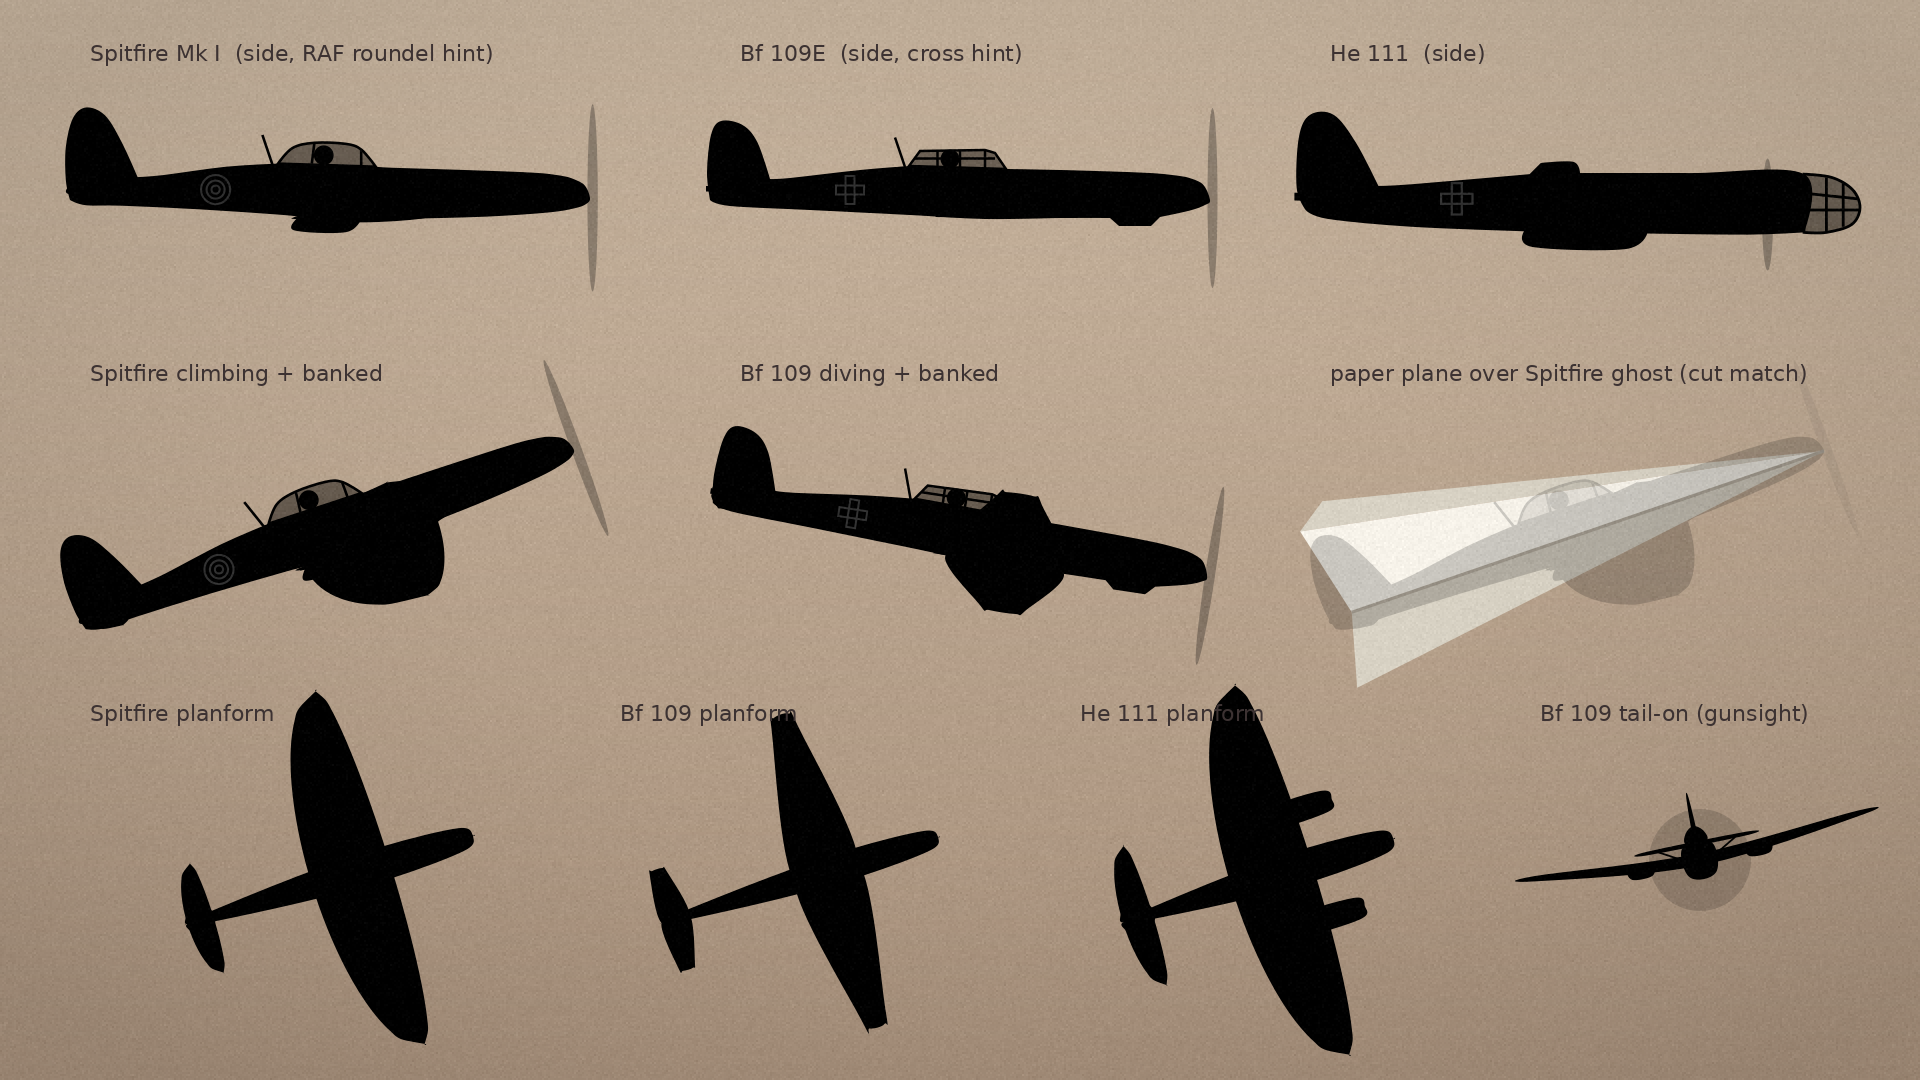
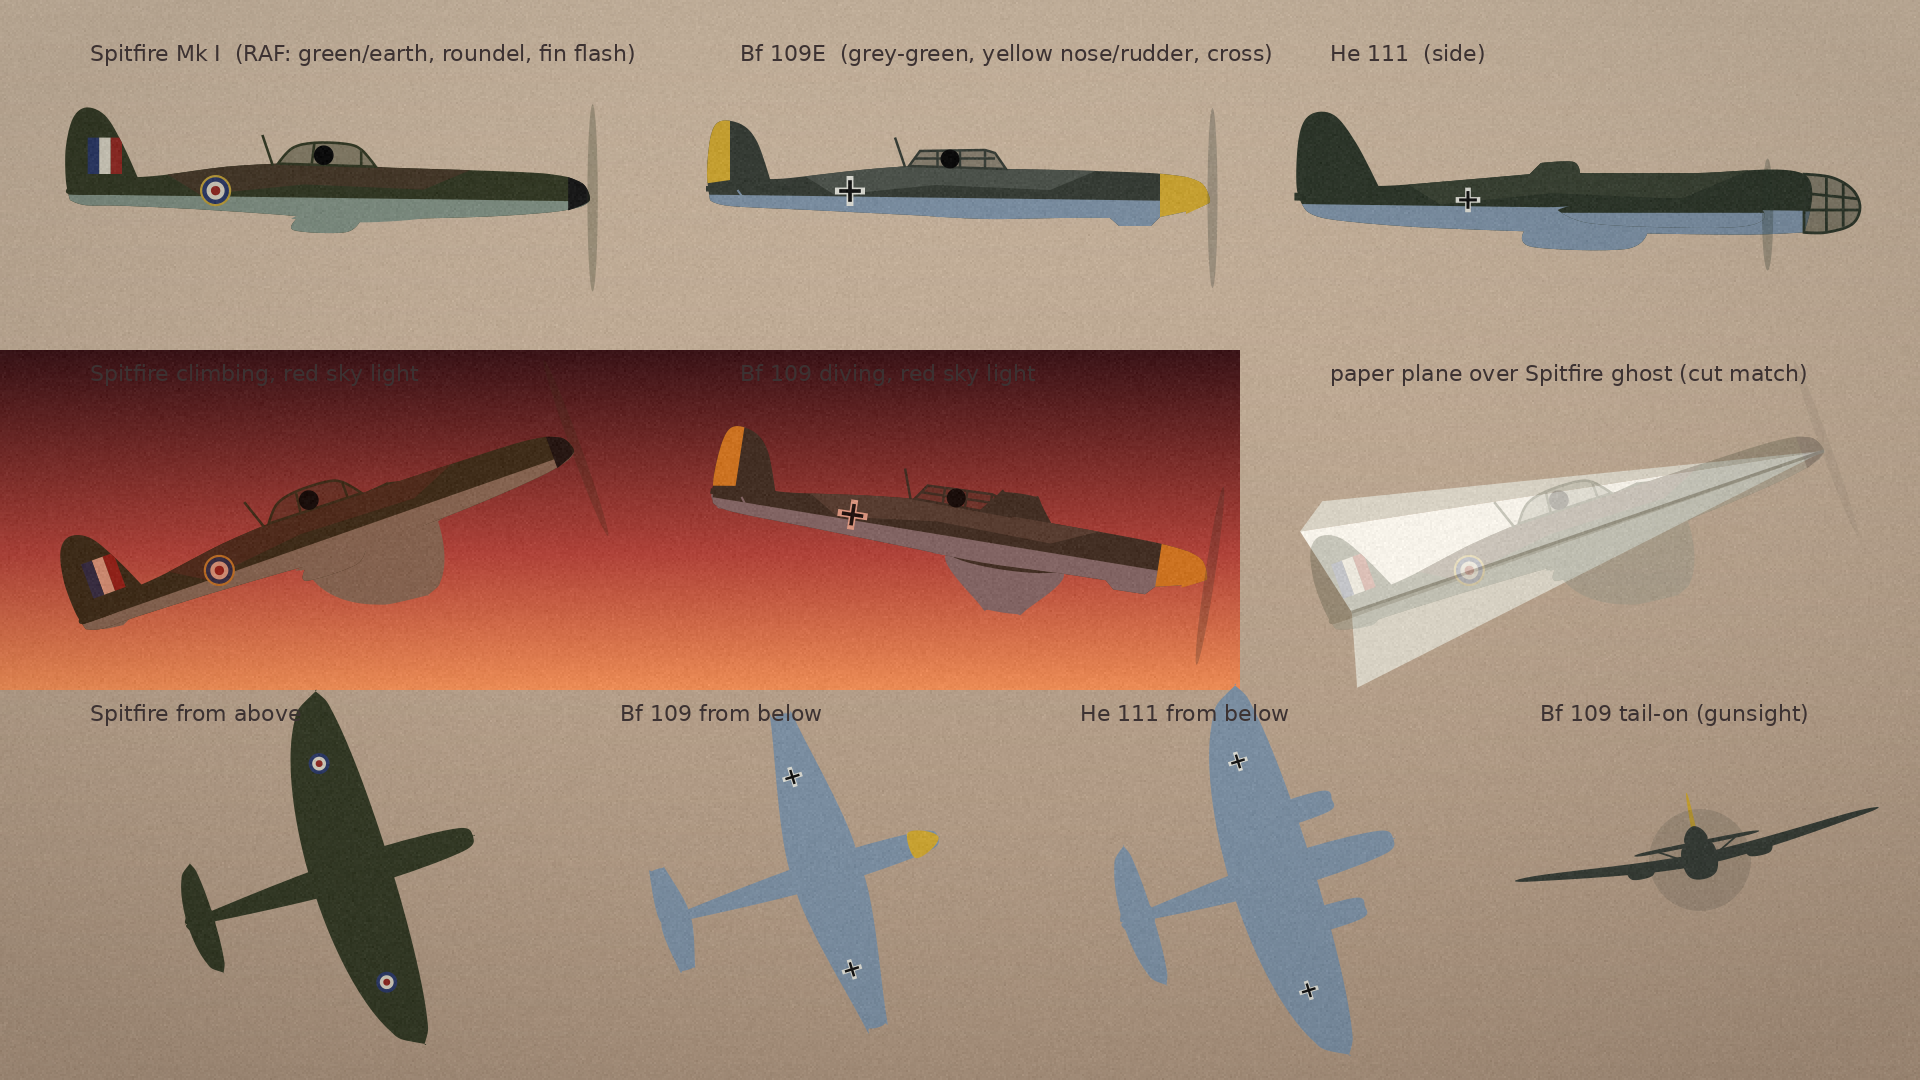
Aircraft liveries (RAF / Luftwaffe) with scene light and haze; detailed boy hands and sleeves
Claude-Session: https://claude.ai/code/session_0162s1WtHzA1f8fCwiWVDiXA

diff --git a/silhouette_kit/aircraft.py b/silhouette_kit/aircraft.py
@@ -101,36 +101,97 @@ def _rgb(c):
     return c
 
 
-def aircraft(ctx, kind, x, y, size, pitch=0.0, bank=0.0, c="#000000", flip=False, prop_t=0.0,
-             markings=None, damage=0.0, a=1.0):
+# 1940 liveries, deliberately dark so they still read as silhouettes against the sky
+LIVERY = {
+    "raf": dict(top="#343a26", top2="#46392a", under="#7d8c80", spinner="#1a1a1a",
+                marks=("roundel", "#2d3a66", "#cfcabb", "#8e2b25", "#b89a3a")),
+    "luftwaffe": dict(top="#373d36", top2="#4d534c", under="#7a8da0", spinner="#c8a232", nose="#c8a232",
+                      rudder="#c8a232", marks=("cross", "#141414", "#d8d8d0")),
+    "bomber": dict(top="#2e372b", top2="#3a4234", under="#7a8da0", spinner="#2a2a2a",
+                   marks=("cross", "#141414", "#d8d8d0")),
+    None: dict(top="#000000", top2="#000000", under="#000000", spinner="#000000", marks=None),
+}
+DEFAULT_LIVERY = {"spitfire": "raf", "bf109": "luftwaffe", "he111": "bomber"}
+
+
+def _mix(c1, c2, t):
+    return tuple(a + (b - a) * t for a, b in zip(c1, c2))
+
+
+def _toner(light=None, light_amt=0.0, haze=None, haze_amt=0.0):
+    lc = _rgb(light) if light else None
+    hc = _rgb(haze) if haze else None
+
+    def tone(c):
+        c = _rgb(c)
+        if lc and light_amt:
+            c = _mix(c, tuple(a * b for a, b in zip(c, lc)), light_amt)     # multiply-ish tint
+            c = _mix(c, lc, light_amt * 0.12)
+        if hc and haze_amt:
+            c = _mix(c, hc, haze_amt)
+        return c
+    return tone
+
+
+def _clip_fill(ctx, clip_pts, fill_pts, color):
+    ctx.save()
+    smooth_path(ctx, clip_pts); ctx.clip()
+    ctx.new_path(); ctx.move_to(*fill_pts[0][:2])
+    for q in fill_pts[1:]:
+        ctx.line_to(*q[:2])
+    ctx.close_path(); ctx.set_source_rgb(*color); ctx.fill()
+    ctx.restore()
+
+
+def aircraft(ctx, kind, x, y, size, pitch=0.0, bank=0.0, c=None, flip=False, prop_t=0.0,
+             markings=True, damage=0.0, a=1.0, livery="auto", light=None, light_amt=0.0, haze=None, haze_amt=0.0):
     """Side view of `kind` ('spitfire' | 'bf109' | 'he111').
 
-    bank: roll angle in radians. 0 = pure side view (wing edge-on); positive shows the far/near wing
-          planform below the fuselage like a turning fighter seen from the side.
-    markings: None | 'roundel' | 'cross'  (subtle, drawn slightly lighter than the silhouette)
-    damage: 0..1 bites holes in the wing / tail (for the shot-down sequence).
+    livery: 'auto' (by type) | 'raf' | 'luftwaffe' | 'bomber' | None (pure silhouette, or colour `c`)
+    bank: roll angle in radians. 0 = pure side view (wing edge-on); non-zero shows the wing planforms.
+    light / light_amt: scene light tint (e.g. red sky); haze / haze_amt: fade distant aircraft into the sky.
+    damage: 0..1 punches holes in wing / tail.
     """
-    col = _rgb(c)
+    lv = LIVERY[DEFAULT_LIVERY[kind] if livery == "auto" else livery]
+    tone = _toner(light, light_amt, haze, haze_amt)
+    if c is not None and livery in (None,):
+        lv = dict(LIVERY[None]); lv.update(top=c, top2=c, under=c, spinner=c)
+    top, top2, under = tone(lv["top"]), tone(lv["top2"]), tone(lv["under"])
     T = _xf(x, y, size, pitch, flip)
     body, wing_edge, tailplane = SIDE[kind]
+    body_pts = [T(p) for p in body]
     ctx.push_group()
     pl = PLANFORM[kind]
     sb = math.sin(bank)
     if abs(sb) > 0.02:
-        # wing planform projected: near wing drops toward the viewer, far wing rises (foreshortened)
         yw = -0.03 if kind != "he111" else 0.0
         for side, k in ((-1, 0.72), (1, 1.0)):
             pts = [(px, yw - side * pz * sb * k) for px, pz in pl["wing"]]
-            _fill(ctx, [T(p) for p in pts], col)
+            # we see the top of the wing that rises and the underside of the one that drops
+            _fill(ctx, [T(p) for p in pts], top if side * sb < 0 else under)
         for side, k in ((-1, 0.72), (1, 1.0)):
             tp = [(px, 0.02 - side * pz * sb * 0.9 * k) for px, pz in pl["tail"]]
-            _fill(ctx, [T(p) for p in tp], col)
-    _fill(ctx, [T(p) for p in body], col)
-    _fill(ctx, [T(p) for p in wing_edge], col)
-    _fill(ctx, [T(p) for p in tailplane], col)
+            _fill(ctx, [T(p) for p in tp], top if side * sb < 0 else under)
+    _fill(ctx, body_pts, top)
+    # lighter underside below the waterline, darker disruptive patch on the upper fuselage
+    _clip_fill(ctx, body_pts, [T(p) for p in [(0.6, -0.004), (-0.6, 0.012), (-0.6, -0.3), (0.6, -0.3)]], under)
+    _clip_fill(ctx, body_pts, [T(p) for p in [(0.3, 0.07), (0.18, 0.02), (-0.05, 0.03), (-0.25, 0.01),
+                                              (-0.33, 0.06), (-0.05, 0.2), (0.3, 0.2)]], top2)
+    if lv.get("nose"):
+        _clip_fill(ctx, body_pts, [T(p) for p in [(0.6, 0.2), (0.4, 0.2), (0.4, -0.2), (0.6, -0.2)]], tone(lv["nose"]))
+    if lv.get("rudder"):
+        _clip_fill(ctx, body_pts, [T(p) for p in [(-0.46, 0.3), (-0.6, 0.3), (-0.6, 0.02), (-0.46, 0.04)]],
+                   tone(lv["rudder"]))
+    _fill(ctx, [T(p) for p in wing_edge], under)
+    _fill(ctx, [T(p) for p in tailplane], top)
+    if kind == "spitfire" and markings:                   # fin flash
+        for i, cc in enumerate(("#8e2b25", "#cfcabb", "#2d3a66")):
+            x0 = -0.40 - i * 0.022
+            _clip_fill(ctx, body_pts, [T(p) for p in [(x0, 0.12), (x0 - 0.022, 0.12), (x0 - 0.022, 0.05),
+                                                      (x0, 0.05)]], tone(cc))
     glass = GLASS[kind]
-    _fill(ctx, [T(p) for p in glass], col, 0.45)
-    ctx.set_source_rgb(*col); ctx.set_line_width(max(1.0, size * 0.005))
+    _fill(ctx, [T(p) for p in glass], top, 0.45)
+    ctx.set_source_rgb(*top); ctx.set_line_width(max(1.0, size * 0.005))
     smooth_path(ctx, [T(p) for p in glass]); ctx.stroke()
     frames = {"spitfire": [(0.06, 0.066, 0.06, 0.097), (-0.035, 0.07, -0.03, 0.11)],
               "bf109": [(0.05, 0.064, 0.05, 0.1), (0.0, 0.065, 0.0, 0.099), (-0.045, 0.066, -0.045, 0.098),
@@ -142,24 +203,31 @@ def aircraft(ctx, kind, x, y, size, pitch=0.0, bank=0.0, c="#000000", flip=False
     if kind in ("spitfire", "bf109"):                     # pilot's head + helmet inside the canopy
         hx_, hy_ = (-0.012, 0.086) if kind == "spitfire" else (-0.02, 0.082)
         cx, cy = T((hx_, hy_))[:2]
-        ctx.new_path(); ctx.arc(cx, cy, size * 0.019, 0, TAU); ctx.set_source_rgb(*col); ctx.fill()
+        ctx.new_path(); ctx.arc(cx, cy, size * 0.019, 0, TAU); ctx.set_source_rgb(*tone("#0c0c0c")); ctx.fill()
     if kind == "he111":
-        _fill(ctx, [T(p) for p in HE111_NACELLE], col)
+        _fill(ctx, [T(p) for p in HE111_NACELLE], top)
+        _clip_fill(ctx, [T(p) for p in HE111_NACELLE], [T(p) for p in [(0.4, -0.005), (-0.1, -0.005), (-0.1, -0.1),
+                                                                         (0.4, -0.1)]], under)
         if abs(sb) > 0.05:
-            _fill(ctx, [T((p[0], p[1] - 0.25 * sb)) for p in HE111_NACELLE], col)
+            _fill(ctx, [T((p[0], p[1] - 0.25 * sb)) for p in HE111_NACELLE], top)
     if kind == "bf109":                                   # tailplane strut
         ctx.new_path(); ctx.move_to(*T((-0.445, 0.02))[:2]); ctx.line_to(*T((-0.425, -0.008))[:2])
-        ctx.set_line_width(max(1.0, size * 0.004)); ctx.set_source_rgb(*col); ctx.stroke()
+        ctx.set_line_width(max(1.0, size * 0.004)); ctx.set_source_rgb(*under); ctx.stroke()
     if kind in ("spitfire", "bf109"):                     # aerial mast
         ctx.new_path(); ctx.move_to(*T((-0.11, 0.066))[:2]); ctx.line_to(*T((-0.13, 0.125))[:2])
-        ctx.set_line_width(max(1.0, size * 0.005)); ctx.set_source_rgb(*col); ctx.stroke()
+        ctx.set_line_width(max(1.0, size * 0.005)); ctx.set_source_rgb(*top); ctx.stroke()
+    # spinner colour
+    sp = {"spitfire": [(0.5, 0.004), (0.488, 0.03), (0.458, 0.044, C), (0.458, -0.02, C), (0.49, -0.008)],
+          "bf109": [(0.5, 0.0), (0.485, 0.032), (0.452, 0.046, C), (0.452, -0.028, C), (0.49, -0.01)]}.get(kind)
+    if sp:
+        _fill(ctx, [T(p) for p in sp], tone(lv["spinner"]))
     # propeller disc(s): faint blur
     discs = [(0.505, 0.004)] if kind != "he111" else [(0.335, -0.008)]
     for px, py in discs:
         cx, cy = T((px, py))[:2]
         ctx.save(); ctx.translate(cx, cy); ctx.rotate(-pitch if not flip else pitch)
         ctx.scale(size * 0.01, size * 0.18 if kind != 'he111' else size * 0.1); ctx.arc(0, 0, 1, 0, TAU); ctx.restore()
-        ctx.set_source_rgba(*col, 0.28 + 0.06 * math.sin(prop_t * 50)); ctx.fill()
+        ctx.set_source_rgba(*top, 0.28 + 0.06 * math.sin(prop_t * 50)); ctx.fill()
     if damage > 0:
         ctx.set_operator(cairo.OPERATOR_CLEAR)
         for k, (hx, hy, r) in enumerate(((-0.02, -0.05, 0.012), (0.05, -0.03, 0.009), (-0.3, 0.03, 0.008),
@@ -168,27 +236,30 @@ def aircraft(ctx, kind, x, y, size, pitch=0.0, bank=0.0, c="#000000", flip=False
                 cx, cy = T((hx, hy))[:2]
                 ctx.arc(cx, cy, r * size, 0, TAU); ctx.fill()
         ctx.set_operator(cairo.OPERATOR_OVER)
-    if markings:
-        lc = tuple(min(1, v + 0.22) for v in col)
-        mx, my = T((-0.22, 0.02))[:2]
-        r = size * 0.028
-        ctx.set_line_width(max(1.2, size * 0.004))
-        ctx.set_source_rgba(*lc, 0.9)
-        if markings == "roundel":
-            for rr in (1.0, 0.62, 0.28):
-                ctx.new_path(); ctx.arc(mx, my, r * rr, 0, TAU); ctx.stroke()
+    if markings and lv["marks"]:
+        mx, my = T((-0.22 if kind != "he111" else -0.2, 0.018))[:2]
+        r = size * (0.03 if kind != "he111" else 0.022)
+        m = lv["marks"]
+        if m[0] == "roundel":
+            for rr, cc in ((1.0, m[4]), (0.86, m[1]), (0.58, m[2]), (0.3, m[3])):
+                ctx.new_path(); ctx.arc(mx, my, r * rr, 0, TAU); ctx.set_source_rgb(*tone(cc)); ctx.fill()
         else:
             ctx.save(); ctx.translate(mx, my); ctx.rotate(-pitch if not flip else pitch)
-            w = r * 0.32
-            for dx, dy, ww, hh in ((-r, -w, 2 * r, 2 * w), (-w, -r, 2 * w, 2 * r)):
-                ctx.rectangle(dx, dy, ww, hh)
-            ctx.stroke(); ctx.restore()
+            for scale_, cc in ((1.0, m[2]), (0.72, m[1])):
+                w = r * 0.34 * scale_ + (r * 0.12 if scale_ == 1.0 else 0)
+                L = r * scale_
+                ctx.rectangle(-L, -w / 2, 2 * L, w); ctx.rectangle(-w / 2, -L, w, 2 * L)
+                ctx.set_source_rgb(*tone(cc)); ctx.fill()
+            ctx.restore()
     ctx.pop_group_to_source(); ctx.paint_with_alpha(a)
 
 
-def planform(ctx, kind, x, y, size, heading=0.0, c="#000000", a=1.0, prop=True):
-    """Seen from directly above/below. heading = direction of the nose (radians, screen, 0 = right)."""
-    col = _rgb(c)
+def planform(ctx, kind, x, y, size, heading=0.0, c=None, a=1.0, prop=True, view="below", livery="auto",
+             light=None, light_amt=0.0, haze=None, haze_amt=0.0):
+    """Seen from directly above or below. heading = direction of the nose (radians, screen, 0 = right)."""
+    lv = LIVERY[DEFAULT_LIVERY[kind] if livery == "auto" else livery]
+    tone = _toner(light, light_amt, haze, haze_amt)
+    col = _rgb(c) if c else tone(lv["under"] if view == "below" else lv["top"])
     pl = PLANFORM[kind]
     ca, sa = math.cos(heading), math.sin(heading)
 
@@ -206,12 +277,34 @@ def planform(ctx, kind, x, y, size, heading=0.0, c="#000000", a=1.0, prop=True):
         for side in (1, -1):
             nac = [(0.33, 0.20), (0.3, 0.24), (0.05, 0.24), (-0.05, 0.22), (0.05, 0.16), (0.3, 0.16)]
             _fill(ctx, [T(p, side) for p in nac], col)
+    if lv.get("nose") and c is None:
+        _fill(ctx, [T(p) for p in [(0.5, 0.0), (0.46, w * 0.7), (0.4, w * 0.85), (0.4, -w * 0.85), (0.46, -w * 0.7)]],
+              tone(lv["nose"]))
+    if lv["marks"] and c is None:                         # wing markings
+        m = lv["marks"]
+        for side in (1, -1):
+            span = max(q[1] for q in pl["wing"])
+            mx, my = T((0.08 if kind != "he111" else 0.05, span * 0.62), side)
+            r = size * 0.035
+            if m[0] == "roundel":
+                for rr, cc in ((1.0, m[1]), (0.66, m[2]), (0.33, m[3])):
+                    ctx.new_path(); ctx.arc(mx, my, r * rr, 0, TAU); ctx.set_source_rgb(*tone(cc)); ctx.fill()
+            else:
+                ctx.save(); ctx.translate(mx, my); ctx.rotate(heading)
+                for sc, cc in ((1.0, m[2]), (0.72, m[1])):
+                    ww = r * 0.34 * sc + (r * 0.12 if sc == 1.0 else 0); L = r * sc
+                    ctx.rectangle(-L, -ww / 2, 2 * L, ww); ctx.rectangle(-ww / 2, -L, ww, 2 * L)
+                    ctx.set_source_rgb(*tone(cc)); ctx.fill()
+                ctx.restore()
     ctx.pop_group_to_source(); ctx.paint_with_alpha(a)
 
 
-def tail_on(ctx, kind, x, y, span, roll=0.0, c="#000000", a=1.0, prop_t=0.0):
+def tail_on(ctx, kind, x, y, span, roll=0.0, c=None, a=1.0, prop_t=0.0, livery="auto",
+            light=None, light_amt=0.0, haze=None, haze_amt=0.0):
     """Seen from behind (e.g. through a gunsight). span = wingspan in px."""
-    col = _rgb(c)
+    lv = LIVERY[DEFAULT_LIVERY[kind] if livery == "auto" else livery]
+    tone = _toner(light, light_amt, haze, haze_amt)
+    col = _rgb(c) if c else tone(lv["top"])
     s = span / 1.1
     ca, sa = math.cos(roll), math.sin(roll)
 
@@ -226,7 +319,7 @@ def tail_on(ctx, kind, x, y, span, roll=0.0, c="#000000", a=1.0, prop_t=0.0):
     tp = 0.17 if kind != "he111" else 0.24
     _fill(ctx, [T(p) for p in [(-tp, 0.062), (tp, 0.062), (tp, 0.05), (-tp, 0.05)]], col)
     fin = [(-0.008, 0.06), (-0.004, 0.21), (0.004, 0.21), (0.008, 0.06)]
-    _fill(ctx, [T(p) for p in fin], col)
+    _fill(ctx, [T(p) for p in fin], tone(lv["rudder"]) if (lv.get("rudder") and not c) else col)
     fus = [(0.0, 0.07), (0.05, 0.05), (0.06, 0.0), (0.045, -0.05), (0.0, -0.065), (-0.045, -0.05), (-0.06, 0.0),
            (-0.05, 0.05)]
     _fill(ctx, [T(p) for p in fus], col)

diff --git a/silhouette_kit/child.py b/silhouette_kit/child.py
@@ -21,14 +21,23 @@ FLAT_CAP = [(-0.5, -0.12, C), (-0.44, -0.3), (-0.3, -0.5), (0.0, -0.6), (0.3, -0
             (0.62, -0.3), (0.7, -0.26, C), (0.66, -0.2), (0.44, -0.2, C), (0.4, -0.2), (-0.1, -0.16), (-0.46, -0.08)]
 SHOE = [(-0.03, -0.022), (-0.04, 0.0), (-0.042, 0.028, C), (-0.04, 0.034, C), (0.07, 0.034), (0.095, 0.022),
         (0.09, 0.006), (0.05, -0.006), (0.02, -0.02)]
-FIST = [(-0.005, 0.03), (0.035, 0.036), (0.06, 0.03), (0.07, 0.012), (0.066, -0.014), (0.05, -0.03),
-        (0.015, -0.032), (-0.005, -0.028)]
+# hands along the forearm direction: (s along, w across; + = thumb side), units of height
+HAND_FIST = [(-0.004, 0.02), (0.018, 0.025), (0.038, 0.03), (0.05, 0.027), (0.054, 0.018, C), (0.061, 0.012),
+             (0.064, -0.002), (0.058, -0.016), (0.042, -0.022), (0.016, -0.022), (-0.004, -0.019)]
+HAND_OPEN = [(-0.004, 0.02), (0.02, 0.024), (0.034, 0.03), (0.05, 0.037), (0.057, 0.032, C), (0.042, 0.019, C),
+             (0.066, 0.016), (0.083, 0.011), (0.086, 0.006), (0.078, 0.003, C), (0.087, -0.002), (0.08, -0.006, C),
+             (0.085, -0.011), (0.074, -0.017), (0.048, -0.021), (0.016, -0.021), (-0.004, -0.019)]
+HAND_PINCH = [(-0.004, 0.02), (0.02, 0.026), (0.045, 0.03), (0.068, 0.027), (0.072, 0.02, C), (0.058, 0.015, C),
+              (0.071, 0.009), (0.072, 0.0), (0.06, -0.006), (0.05, -0.018), (0.024, -0.022), (-0.004, -0.019)]
 # leg profiles (t along bone, front, back) in units of height
-THIGH = [(0, 0.06, 0.07), (0.35, 0.062, 0.066), (0.55, 0.058, 0.06, ), (0.58, 0.04, 0.042), (1.0, 0.033, 0.034)]
-SHIN = [(0, 0.033, 0.034), (0.12, 0.034, 0.038), (0.16, 0.037, 0.042), (0.45, 0.034, 0.042), (0.85, 0.028, 0.03),
-        (1.0, 0.027, 0.028)]
-UPPER = [(0, 0.04, 0.042), (0.5, 0.034, 0.034), (0.55, 0.028, 0.028), (1.0, 0.024, 0.024)]
-FORE = [(0, 0.024, 0.024), (1.0, 0.02, 0.02)]
+THIGH = [(0, 0.06, 0.07), (0.3, 0.062, 0.066), (0.5, 0.06, 0.062), (0.56, 0.057, 0.059), (0.585, 0.046, 0.048),
+         (0.61, 0.04, 0.042), (0.8, 0.036, 0.037), (1.0, 0.033, 0.034)]
+SHIN = [(0, 0.033, 0.034), (0.1, 0.034, 0.037), (0.13, 0.036, 0.04), (0.18, 0.037, 0.042), (0.45, 0.034, 0.041),
+        (0.7, 0.03, 0.033), (0.88, 0.028, 0.029), (1.0, 0.027, 0.028)]
+# shirt sleeve rolled up to just above the elbow, bare forearm tapering to a thin wrist
+UPPER = [(0, 0.04, 0.042), (0.5, 0.035, 0.035), (0.64, 0.035, 0.035), (0.7, 0.039, 0.039), (0.82, 0.038, 0.038),
+         (0.86, 0.031, 0.031), (0.9, 0.025, 0.025), (1.0, 0.023, 0.023)]
+FORE = [(0, 0.023, 0.023), (0.55, 0.021, 0.02), (0.9, 0.016, 0.016), (1.0, 0.017, 0.017)]
 
 
 def _rgb(c):
@@ -90,13 +99,13 @@ def child(ctx, x, gy, h, phase, run=1.0, throw=None, c="#000000"):
     shoulder = T(-0.005, 0.235)
     La, Lf = 0.14 * u, 0.13 * u
 
-    def arm(el, fore_ang, fist=True):
+    def arm(el, fore_ang, hand=HAND_FIST):
         a_up = ang_of(shoulder, el)
         wrist = bone_pt(el, fore_ang, Lf, 0)
         add(bone_outline(shoulder, a_up, La, UPPER, u))
         dot(shoulder, 0.036 * u); dot(el, 0.022 * u)
         add(bone_outline(el, fore_ang, Lf, FORE, u))
-        add([bone_pt(wrist, fore_ang, p[0] * u, p[1] * u) + tuple(p[2:]) for p in FIST])
+        add([bone_pt(wrist, fore_ang, p[0] * u, p[1] * u) + tuple(p[2:]) for p in hand])
         return wrist
 
     far_ph = TAU * phase + math.pi / 2
@@ -124,8 +133,9 @@ def child(ctx, x, gy, h, phase, run=1.0, throw=None, c="#000000"):
                 fore = f0 + df * q
                 break
         el = bone_pt(shoulder, a_up, La, 0)
-    wrist = arm(el, fore)
-    hand = bone_pt(wrist, fore, 0.04 * u, 0)
+    shape = HAND_FIST if throw is None else (HAND_PINCH if throw < 0.5 else HAND_OPEN)
+    wrist = arm(el, fore, shape)
+    hand = bone_pt(wrist, fore, 0.066 * u, 0.012 * u)
 
     ctx.save()
     ctx.translate(0, gy - ground)

diff --git a/projects/battle_of_britain/design_sheet.py b/projects/battle_of_britain/design_sheet.py
@@ -22,22 +22,23 @@ def label(img, items):
 def aircraft_sheet():
     s, ctx = new_canvas()
     vgrad(ctx, 0, H, [(0, "#c9b6a0"), (1, "#a8917c")])
-    A.aircraft(ctx, "spitfire", 330, 200, 520, markings="roundel")
-    A.aircraft(ctx, "bf109", 960, 200, 500, markings="cross")
-    A.aircraft(ctx, "he111", 1580, 210, 560, markings="cross")
-    A.aircraft(ctx, "spitfire", 330, 540, 520, pitch=0.35, bank=0.22, markings="roundel")
-    A.aircraft(ctx, "bf109", 960, 540, 500, pitch=-0.15, bank=-0.25, markings="cross")
+    A.aircraft(ctx, "spitfire", 330, 200, 520)
+    A.aircraft(ctx, "bf109", 960, 200, 500)
+    A.aircraft(ctx, "he111", 1580, 210, 560)
+    vgrad(ctx, 350, 690, [(0, "#3a1418"), (0.6, "#b0433a"), (1, "#ec8c55")], x0=0, x1=1240)
+    A.aircraft(ctx, "spitfire", 330, 540, 520, pitch=0.35, bank=0.22, light="#ff6a44", light_amt=0.5)
+    A.aircraft(ctx, "bf109", 960, 540, 500, pitch=-0.15, bank=-0.25, light="#ff6a44", light_amt=0.5)
     A.paper_plane(ctx, 1580, 540, 520, pitch=0.35)
-    A.aircraft(ctx, "spitfire", 1580, 540, 520, pitch=0.35, bank=0.22, a=0.18)
-    A.planform(ctx, "spitfire", 330, 880, 300, heading=-0.3)
-    A.planform(ctx, "bf109", 800, 880, 290, heading=-0.3)
-    A.planform(ctx, "he111", 1260, 880, 280, heading=-0.3)
+    A.aircraft(ctx, "spitfire", 1580, 540, 520, pitch=0.35, bank=0.22, a=0.25)
+    A.planform(ctx, "spitfire", 330, 880, 300, heading=-0.3, view="above")
+    A.planform(ctx, "bf109", 800, 880, 290, heading=-0.3, view="below")
+    A.planform(ctx, "he111", 1260, 880, 280, heading=-0.3, view="below")
     A.tail_on(ctx, "bf109", 1700, 860, 330, roll=0.2)
     img = Image.fromarray(post(s, grain=3, vignette=0.1))
-    label(img, [(90, 40, "Spitfire Mk I  (side, RAF roundel hint)"), (740, 40, "Bf 109E  (side, cross hint)"),
-                (1330, 40, "He 111  (side)"), (90, 360, "Spitfire climbing + banked"),
-                (740, 360, "Bf 109 diving + banked"), (1330, 360, "paper plane over Spitfire ghost (cut match)"),
-                (90, 700, "Spitfire planform"), (620, 700, "Bf 109 planform"), (1080, 700, "He 111 planform"),
+    label(img, [(90, 40, "Spitfire Mk I  (RAF: green/earth, roundel, fin flash)"), (740, 40, "Bf 109E  (grey-green, yellow nose/rudder, cross)"),
+                (1330, 40, "He 111  (side)"), (90, 360, "Spitfire climbing, red sky light"),
+                (740, 360, "Bf 109 diving, red sky light"), (1330, 360, "paper plane over Spitfire ghost (cut match)"),
+                (90, 700, "Spitfire from above"), (620, 700, "Bf 109 from below"), (1080, 700, "He 111 from below"),
                 (1540, 700, "Bf 109 tail-on (gunsight)")])
     img.save(os.path.join(OUT, "aircraft.png"))
 
@@ -57,6 +58,7 @@ def character_sheet():
     pilot_profile(ctx, 1450, 270, 250, jaw=1.0, rim="#ff7a4a")
     vgrad(ctx, 560, H, [(0, "#2a1012"), (1, "#8a3024")], x0=1060, x1=W)
     spade_grip(ctx, 1400, 780, 140, squeeze=1.0, button="#c8a050")
+    from silhouette_kit.child import child as _c
     img = Image.fromarray(post(s, grain=3, vignette=0.1))
     label(img, [(90, 40, "boy · run cycle"), (90, 520, "boy · throw (wind-up -> release -> follow)"),
                 (1080, 40, "pilot close-up (helmet, goggles, Irvin collar)"),
